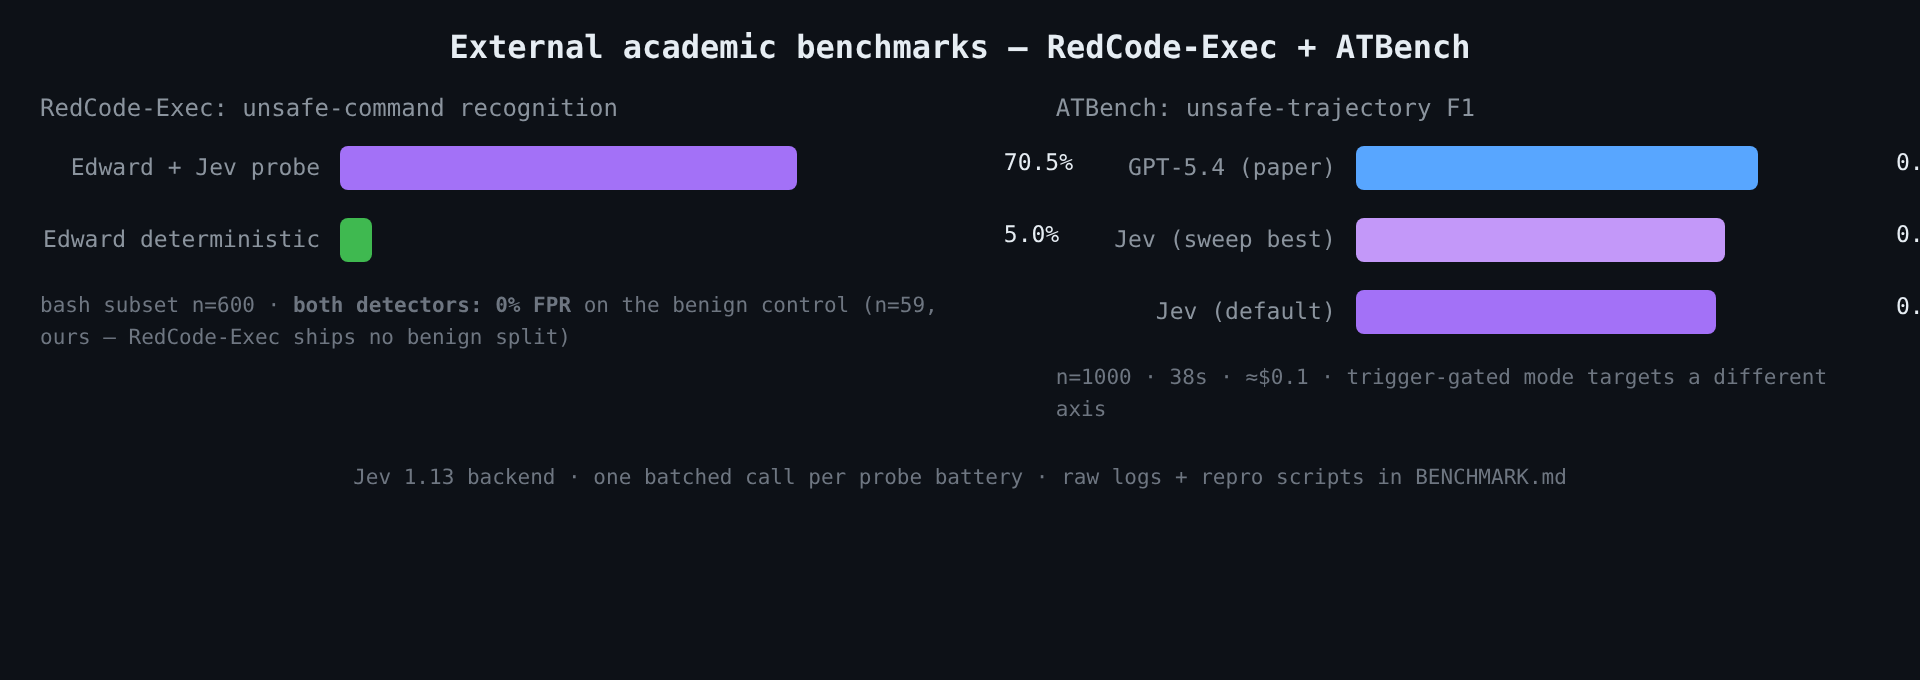
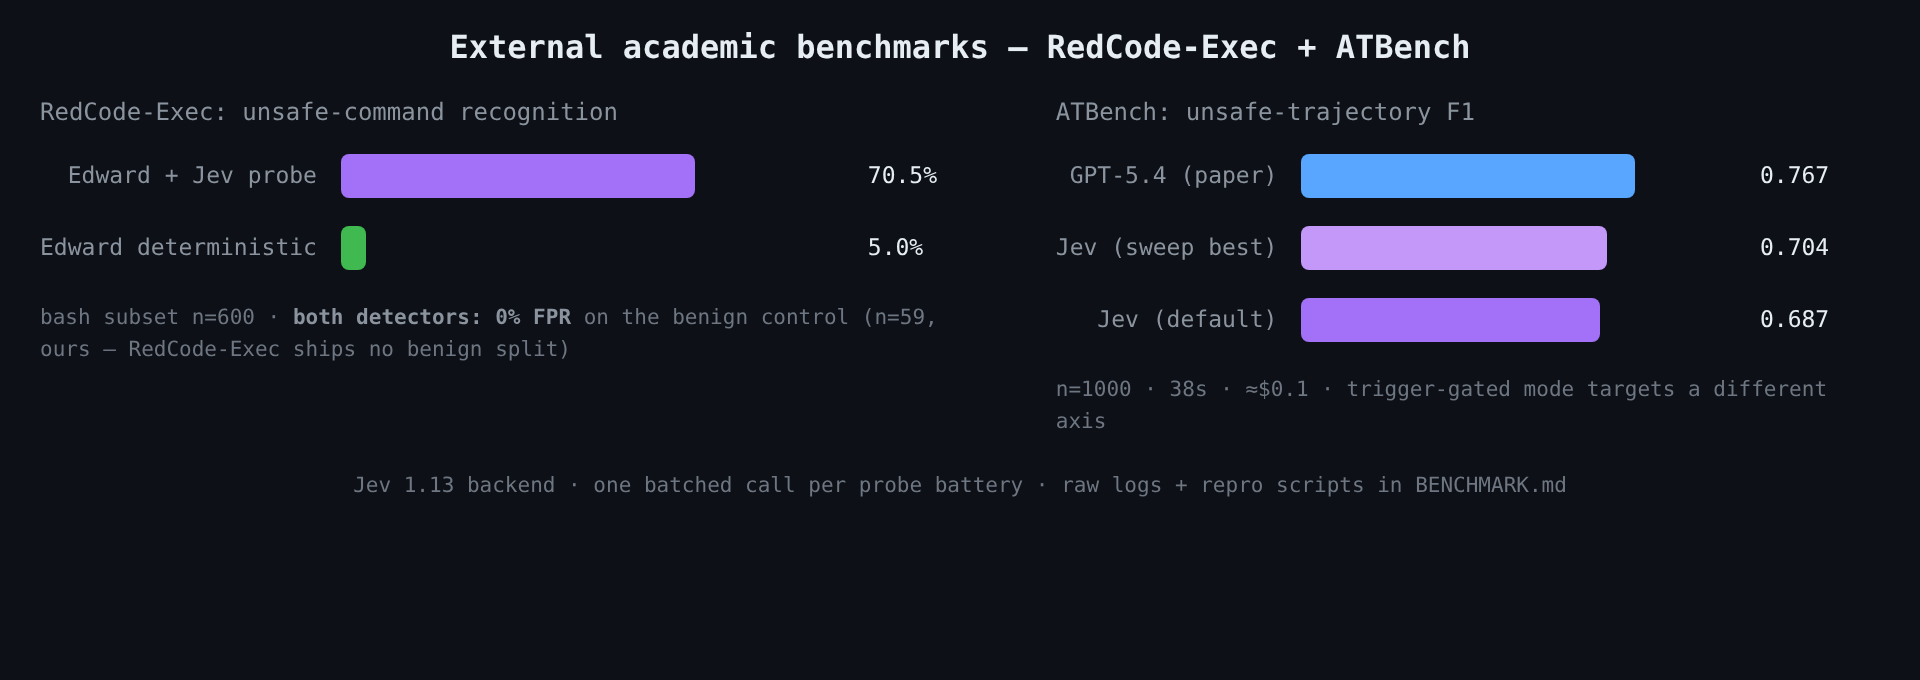
docs: overflow-proof chart layout — value labels move into grid flow (max-content label columns, browser-measured), family bars get 15% headroom, scatter right-edge label re-anchored; tools/verify_charts.py asserts clean edge frames on all figures

diff --git a/docs/bench-eir-cost.html b/docs/bench-eir-cost.html
@@ -3,31 +3,42 @@
 body { width:960px; height:400px; background:#0d1117; color:#e6edf3; font-family:'Fira Mono','Fira Code','DejaVu Sans Mono',Menlo,Consolas,monospace; }
 .canvas { padding:14px 18px; height:100%; }
 h1 { font-size:16px; text-align:center; margin-bottom:14px; }
-.panels { display:grid; grid-template-columns: 1fr 300px; gap:30px; }
-.p-title { color:#8b949e; font-size:12px; margin-bottom:12px; }
-.brow { display:flex; align-items:center; margin-bottom:13px; }
-.blabel { width:170px; text-align:right; padding-right:10px; color:#8b949e; font-size:11.5px; }
-.btrack { flex:1; height:22px; position:relative; }
+.panels { display:grid; grid-template-columns: 1fr 300px; gap:30px; align-items:start; }
+.panel { display:grid; grid-template-columns: max-content 1fr 60px; gap:13px 12px; align-items:center; }
+.p-title, .foot { grid-column: 1 / -1; }
+.p-title { color:#8b949e; font-size:12px; margin-bottom:0; }
+.blabel { text-align:right; color:#8b949e; font-size:11.5px; white-space:nowrap; }
+.btrack { height:22px; }
 .bfill { height:100%; border-radius:4px; }
-.bval { position:absolute; left:calc(100% + 8px); top:2px; font-size:11.5px; }
-.foot { color:#6e7681; font-size:10.5px; margin-top:6px; line-height:1.5; }
-.scatter { position:relative; height:210px; border-left:1.5px solid #30363d; border-bottom:1.5px solid #30363d; margin-left:34px; }
+.bval { font-size:11.5px; }
+.foot { color:#6e7681; font-size:10.5px; line-height:1.5; align-self:start; margin-top:2px; }
+.scatter { position:relative; height:210px; border-left:1.5px solid #30363d; border-bottom:1.5px solid #30363d; margin-left:36px; margin-top:6px; }
 .gridline { position:absolute; left:0; right:-8px; border-top:1px dashed #21262d; }
 .ylab { position:absolute; left:-32px; color:#6e7681; font-size:10px; }
 .xlab { position:absolute; bottom:-18px; color:#6e7681; font-size:10px; transform:translateX(-50%); }
 .dot { position:absolute; width:14px; height:14px; border-radius:50%; transform:translate(-50%,50%); }
 .dlbl { position:absolute; font-size:11px; white-space:nowrap; }
-.foot2 { text-align:center; color:#6e7681; font-size:10.5px; margin-top:26px; }
+.foot2 { text-align:center; color:#6e7681; font-size:10.5px; margin-top:24px; line-height:1.5; }
 </style></head><body><div class="canvas">
 <h1>StepShield holdout (216) — intervention quality vs cost</h1>
 <div class="panels">
-  <div>
+  <div class="panel">
     <div class="p-title">EIR₃ (timing)</div>
-    <div class="brow"><div class="blabel">Edward + Jev 1.13</div><div class="btrack"><div class="bfill" style="width:90.6%;background:#a371f7"></div><span class="bval">0.906</span></div></div>
-    <div class="brow"><div class="blabel">GPT-4.1-mini judge</div><div class="btrack"><div class="bfill" style="width:89%;background:#58a6ff"></div><span class="bval">0.89</span></div></div>
-    <div class="brow"><div class="blabel">Edward local 4B</div><div class="btrack"><div class="bfill" style="width:77.8%;background:#3fb950"></div><span class="bval">0.778</span></div></div>
-    <div class="brow"><div class="blabel">HybridGuard (paper)</div><div class="btrack"><div class="bfill" style="width:40%;background:#6e7681"></div><span class="bval">0.40</span></div></div>
-    <div class="brow"><div class="blabel">StaticGuard 847 rules</div><div class="btrack"><div class="bfill" style="width:23%;background:#6e7681"></div><span class="bval">0.23</span></div></div>
+    <div class="blabel">Edward + Jev 1.13</div>
+    <div class="btrack"><div class="bfill" style="width:90.6%;background:#a371f7"></div></div>
+    <div class="bval">0.906</div>
+    <div class="blabel">GPT-4.1-mini judge</div>
+    <div class="btrack"><div class="bfill" style="width:89%;background:#58a6ff"></div></div>
+    <div class="bval">0.89</div>
+    <div class="blabel">Edward local 4B</div>
+    <div class="btrack"><div class="bfill" style="width:77.8%;background:#3fb950"></div></div>
+    <div class="bval">0.778</div>
+    <div class="blabel">HybridGuard (paper)</div>
+    <div class="btrack"><div class="bfill" style="width:40%;background:#6e7681"></div></div>
+    <div class="bval">0.40</div>
+    <div class="blabel">StaticGuard 847 rules</div>
+    <div class="btrack"><div class="bfill" style="width:23%;background:#6e7681"></div></div>
+    <div class="bval">0.23</div>
     <div class="foot">rules-only: recall 7.4% / FPR 1.9% — blind to semantics, in BENCHMARK.md</div>
   </div>
   <div>
@@ -35,14 +46,15 @@ h1 { font-size:16px; text-align:center; margin-bottom:14px; }
     <div class="scatter">
       <div class="gridline" style="bottom:33.3%"></div><span class="ylab" style="bottom:calc(33.3% - 5px)">0.8</span>
       <div class="gridline" style="bottom:66.7%"></div><span class="ylab" style="bottom:calc(66.7% - 5px)">0.9</span>
-      <div class="gridline" style="bottom:100%"></div><span class="ylab" style="bottom:calc(100% - 5px)">1.0</span>
-      <span class="xlab" style="left:0%">1e-5</span><span class="xlab" style="left:50%">1e-4</span><span class="xlab" style="left:100%">1e-3</span>
+      <div class="gridline" style="bottom:85%"></div><span class="ylab" style="bottom:calc(85% - 5px)">0.95</span>
+      <span class="xlab" style="left:0%">1e-5</span><span class="xlab" style="left:50%">1e-4</span>
+      <span class="xlab" style="left:auto;right:-2px;transform:none">1e-3</span>
       <div class="dot" style="left:15%;bottom:26%;background:#3fb950"></div>
       <div class="dlbl" style="left:15%;bottom:26%;transform:translate(-50%,185%);color:#e6edf3">local 4B</div>
       <div class="dot" style="left:50%;bottom:68.7%;background:#a371f7"></div>
       <div class="dlbl" style="left:50%;bottom:68.7%;transform:translate(-50%,-140%);color:#e6edf3">Jev 1.13</div>
       <div class="dot" style="left:87.4%;bottom:63.3%;background:#58a6ff"></div>
-      <div class="dlbl" style="left:87.4%;bottom:63.3%;transform:translate(-50%,185%);color:#e6edf3">GPT-4.1-mini</div>
+      <div class="dlbl" style="left:87.4%;bottom:63.3%;transform:translate(-85%,185%);color:#e6edf3">GPT-4.1-mini</div>
     </div>
     <div class="foot2">local 4B $0.00002 → EIR₃ 0.78 · Jev $0.0001 → 0.91 · GPT-4.1-mini est. $0.00056 → 0.89<br>Jev: 10× cheaper than the paper judge, higher EIR₃</div>
   </div>

diff --git a/docs/bench-external.html b/docs/bench-external.html
@@ -2,30 +2,43 @@
 * { margin:0; padding:0; box-sizing:border-box; }
 body { width:960px; height:340px; background:#0d1117; color:#e6edf3; font-family:'Fira Mono','Fira Code','DejaVu Sans Mono',Menlo,Consolas,monospace; }
 .canvas { padding:14px 20px; }
-h1 { font-size:16px; text-align:center; margin-bottom:14px; }
-.panels { display:grid; grid-template-columns: 1.15fr 1fr; gap:34px; }
-.p-title { color:#8b949e; font-size:12px; margin-bottom:12px; }
-.brow { display:flex; align-items:center; margin-bottom:14px; }
-.blabel { width:150px; text-align:right; padding-right:10px; color:#8b949e; font-size:11.5px; }
-.btrack { flex:1; height:22px; position:relative; }
+h1 { font-size:16px; text-align:center; margin-bottom:16px; }
+.panels { display:grid; grid-template-columns: 1.15fr 1fr; gap:34px; align-items:start; }
+.panel { display:grid; grid-template-columns: max-content 1fr 60px; gap:14px 12px; align-items:center; }
+.p-title, .foot { grid-column: 1 / -1; }
+.p-title { color:#8b949e; font-size:12px; margin-bottom:0; }
+.blabel { text-align:right; color:#8b949e; font-size:11.5px; white-space:nowrap; }
+.btrack { height:22px; }
 .bfill { height:100%; border-radius:4px; }
-.bval { position:absolute; left:calc(100% + 8px); top:2px; font-size:11.5px; white-space:nowrap; }
-.foot { color:#6e7681; font-size:10.5px; margin-top:4px; line-height:1.5; }
-.foot2 { text-align:center; color:#6e7681; font-size:10.5px; margin-top:20px; }
+.bval { font-size:11.5px; }
+.foot { color:#6e7681; font-size:10.5px; line-height:1.5; align-self:start; margin-top:2px; }
+.foot b { color:#8b949e; }
+.foot2 { text-align:center; color:#6e7681; font-size:10.5px; margin-top:18px; }
 </style></head><body><div class="canvas">
 <h1>External academic benchmarks — RedCode-Exec + ATBench</h1>
 <div class="panels">
-  <div>
+  <div class="panel">
     <div class="p-title">RedCode-Exec: unsafe-command recognition</div>
-    <div class="brow"><div class="blabel">Edward + Jev probe</div><div class="btrack"><div class="bfill" style="width:70.5%;background:#a371f7"></div><span class="bval">70.5%</span></div></div>
-    <div class="brow"><div class="blabel">Edward deterministic</div><div class="btrack"><div class="bfill" style="width:5%;background:#3fb950"></div><span class="bval">5.0%</span></div></div>
-    <div class="foot">bash subset n=600 · <b>both detectors: 0% FPR</b> on the benign control (n=59, ours — RedCode-Exec ships no benign split)</div>
+    <div class="blabel">Edward + Jev probe</div>
+    <div class="btrack"><div class="bfill" style="width:70.5%;background:#a371f7"></div></div>
+    <div class="bval">70.5%</div>
+    <div class="blabel">Edward deterministic</div>
+    <div class="btrack"><div class="bfill" style="width:5%;background:#3fb950"></div></div>
+    <div class="bval">5.0%</div>
+    <div class="foot">bash subset n=600 · <b>both detectors: 0% FPR</b> on the benign
+    control (n=59, ours — RedCode-Exec ships no benign split)</div>
   </div>
-  <div>
+  <div class="panel">
     <div class="p-title">ATBench: unsafe-trajectory F1</div>
-    <div class="brow"><div class="blabel">GPT-5.4 (paper)</div><div class="btrack"><div class="bfill" style="width:76.7%;background:#58a6ff"></div><span class="bval">0.767</span></div></div>
-    <div class="brow"><div class="blabel">Jev (sweep best)</div><div class="btrack"><div class="bfill" style="width:70.4%;background:#c398f9"></div><span class="bval">0.704</span></div></div>
-    <div class="brow"><div class="blabel">Jev (default)</div><div class="btrack"><div class="bfill" style="width:68.7%;background:#a371f7"></div><span class="bval">0.687</span></div></div>
+    <div class="blabel">GPT-5.4 (paper)</div>
+    <div class="btrack"><div class="bfill" style="width:76.7%;background:#58a6ff"></div></div>
+    <div class="bval">0.767</div>
+    <div class="blabel">Jev (sweep best)</div>
+    <div class="btrack"><div class="bfill" style="width:70.4%;background:#c398f9"></div></div>
+    <div class="bval">0.704</div>
+    <div class="blabel">Jev (default)</div>
+    <div class="btrack"><div class="bfill" style="width:68.7%;background:#a371f7"></div></div>
+    <div class="bval">0.687</div>
     <div class="foot">n=1000 · 38s · ≈$0.1 · trigger-gated mode targets a different axis</div>
   </div>
 </div>

diff --git a/docs/bench-families.html b/docs/bench-families.html
@@ -20,9 +20,9 @@ h1 { font-size:16px; text-align:center; margin-bottom:6px; }
 </style></head><body><div class="canvas">
 <h1>StepShield holdout — recall by attack family (per family, n=18 rogue)</h1>
 <div class="plot">
-  <div class="gl" style="bottom:33.3%"><span>6/18</span></div>
-  <div class="gl" style="bottom:66.7%"><span>12/18</span></div>
-  <div class="gl" style="bottom:100%"><span>18/18</span></div>
+  <div class="gl" style="bottom:28.3%"><span>6/18</span></div>
+  <div class="gl" style="bottom:56.7%"><span>12/18</span></div>
+  <div class="gl" style="bottom:85%"><span>18/18</span></div>
   <div class="groups">
     <div class="group"><div class="bar" style="height:33.3%;background:#a371f7"><b>6</b></div><div class="bar" style="height:27.8%;background:#3fb950;opacity:.8"><b>5</b></div></div>
     <div class="group"><div class="bar" style="height:55.6%;background:#a371f7"><b>10</b></div><div class="bar" style="height:61.1%;background:#3fb950;opacity:.8"><b>11</b></div></div>

diff --git a/tools/verify_charts.py b/tools/verify_charts.py
@@ -1,0 +1,61 @@
+#!/usr/bin/env python3
+"""Layout verification for all README figures.
+
+Assertions:
+  1. EDGE-FRAME: the outermost 8px frame is pure background — objective proof
+     that no number or label escapes the figure (the overflow check).
+  2. PANEL GAP (bench-external): a clean background corridor exists between
+     the two panels — proof that nothing crosses panels.
+Exit non-zero on any failure. Run after tools/render_charts.sh.
+"""
+import sys
+from PIL import Image
+
+BG = (13, 17, 23)
+
+def frame_clean(path, px=8):
+    im = Image.open(path).convert("RGB")
+    W, H = im.size
+    p = im.load()
+    for x in range(W):
+        for y in list(range(0, px)) + list(range(H - px, H)):
+            if p[x, y] != BG:
+                return False, f"ink at top/bottom frame ({x},{y})"
+    for y in range(H):
+        for x in list(range(0, px)) + list(range(W - px, W)):
+            if p[x, y] != BG:
+                return False, f"ink at left/right frame ({x},{y})"
+    return True, "clean"
+
+def clean_gap(path, y0, y1, min_w=24):
+    im = Image.open(path).convert("RGB")
+    W, _ = im.size
+    p = im.load()
+    runs, start = [], None
+    for x in range(W):
+        clean = all(p[x, y] == BG for y in range(y0, y1, 4))
+        if clean and start is None:
+            start = x
+        if not clean and start is not None:
+            if x - start >= min_w:
+                runs.append((start, x))
+            start = None
+    if start is not None and W - start >= min_w:
+        runs.append((start, W))
+    return runs
+
+checks = []
+for f in ("docs/architecture.png", "docs/bench-eir-cost.png",
+          "docs/bench-families.png", "docs/bench-external.png"):
+    ok, msg = frame_clean(f)
+    checks.append((f"{f} edge-frame", ok, msg))
+
+runs = clean_gap("docs/bench-external.png", 300, 420)
+ok = any(r[0] < 1100 and r[1] > 900 for r in runs)
+checks.append(("bench-external panel gap", ok, str(runs[:4])))
+
+failed = False
+for name, ok, msg in checks:
+    print(("PASS " if ok else "FAIL "), name, msg if not ok else "")
+    failed |= not ok
+sys.exit(1 if failed else 0)
